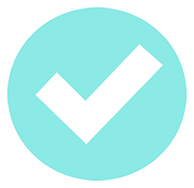
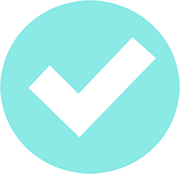
with check animation

diff --git a/css/screen.css b/css/screen.css
@@ -1747,23 +1747,33 @@ body { padding-top: 90px; padding-bottom: 150px; }
 .items.items_3 .item { width: 30.8%; margin-right: 3.8%; }
 .items.items_3 .item:last-child { margin-right: 0; }
 .items.items_3 .item .item__picture { height: 375px; }
+.items.items_3 .item .item__check:before { bottom: 99px; }
 .items.items_2 .item { width: 46.7%; margin-right: 6.6%; }
 .items.items_2 .item:last-child { margin-right: 0; }
 .items.items_2 .item .item__picture { height: 604px; }
+.items.items_2 .item .item__check:before { bottom: 214px; }
 .items.items_4 .item .item__picture { height: 275px; }
 
 .item { border: 1px solid #9C9C9C; box-shadow: 0 0 10px rgba(0, 0, 0, 0.4); background: #fff; position: relative; padding-bottom: 69px; margin-bottom: 20px; }
 .item.item_comments { position: relative; border: none; box-shadow: none; background: none; }
 .item .item__in { padding-bottom: 69px; border: 1px solid #9C9C9C; box-shadow: 0 0 10px rgba(0, 0, 0, 0.4); background: #fff; margin-bottom: 15px; position: relative; }
 .item .item__picture { height: 420px; -webkit-background-size: contain; -o-background-size: contain; background-size: contain; background-position: 50% 50%; background-repeat: no-repeat; position: relative; }
-.item .item__check { position: absolute; bottom: 0; left: 0; right: 0; top: 0; z-index: -1; background: url(../img/check11.png) no-repeat 50% 55%; transition: all 0.3s linear; opacity: 0; }
-.item .item__percentage { position: absolute; color: #999999; font-size: 25px; left: 10px; top: 10px; line-height: 1; }
-.item .item__percentageline-wrap { height: calc(100% -(120px)); position: absolute; bottom: 65px; left: 0; width: 15px; z-index: 200; }
+.item .item__check { position: absolute; bottom: 0; left: 0; right: 0; z-index: -1; overflow: hidden; transition: all 0.3s linear; opacity: 0; }
+.item .item__check:before { content: ""; position: absolute; bottom: 49px; left: 50%; margin-left: -90px; background: url(../img/check11.png) no-repeat 50% 50%; width: 180px; height: 174px; }
+.item .item__percentage { position: absolute; color: #999; font-size: 25px; left: 10px; top: 10px; line-height: 1; }
+.item .item__percentageline-wrap { height: calc(100% - 120px); position: absolute; bottom: 65px; left: 0; width: 15px; z-index: 200; }
 .item .item__percentageline-wrap.is-green { background: #44FFFE; }
 .item .item__percentageline { position: absolute; bottom: 0; left: 0; width: 15px; background: #C9C9C9; z-index: 200; }
 .item .item__percentageline.is-green { background: #44FFFE; }
-.item.is-check .item__check { opacity: 1; z-index: 10; }
 .item.is-voted .item__check { height: 100%; }
+@-moz-keyframes item__check { from { height: 0; }
+  to { height: 100%; } }
+@-webkit-keyframes item__check { from { height: 0; }
+  to { height: 100%; } }
+@keyframes item__check { from { height: 0; }
+  to { height: 100%; } }
+.item.is-runcheckmark .item__check { opacity: 1; z-index: 10; height: 0; -moz-animation: item__check 0.6s linear forwards; -webkit-animation: item__check 0.6s linear forwards; animation: item__check 0.6s linear forwards; }
+.item.is-runcheckmark .item__picture:after { opacity: 1; }
 .item.is-winner:before { position: absolute; right: 10px; top: 10px; content: " "; background: url('../img/icons-s521918c1aa.png') 0 -186px no-repeat; width: 87px; height: 68px; z-index: 200; }
 .item .item__text { position: absolute; bottom: 0; left: 0; right: 0; background: #fff; height: 71px; font-size: 15px; color: #535353; padding: 6px 13px 0 13px; overflow: hidden; }
 .item.item_finished .item__buy { position: absolute; bottom: 5px; left: 0; right: 0; text-align: center; display: none; }
@@ -1774,6 +1784,10 @@ body { padding-top: 90px; padding-bottom: 150px; }
 .item.item_addtext textarea { position: absolute; top: 0; left: 0; right: 0; bottom: 0; width: 100%; padding: 15px; border: none; font-size: 25px; color: #858585; font-family: Comfortaa, sans-serif; box-sizing: border-box; }
 .item.item_add { height: 269px; box-shadow: none; box-sizing: border-box; border: 2px dashed #B7B7B7; background: transparent; }
 .item.item_add .item__addicon { border-radius: 50%; font-size: 30px; color: #A4A4A4; text-align: center; width: 132px; height: 132px; border: 3px dashed #B7B7B7; position: absolute; top: 50%; left: 50%; margin-left: -66px; margin-top: -66px; line-height: 1.1; box-sizing: border-box; padding-top: 30px; cursor: pointer; }
+
+.item__picture:after { content: ""; transition: all 0.3s linear; position: absolute; top: 50%; left: 50%; width: 180px; height: 174px; margin-top: -87px; margin-left: -90px; background: url(../img/check-is-hover.png) no-repeat 50% 50%; opacity: 0; transition: all 0.2s linear; }
+
+.item:hover .item__picture:after { opacity: 1; }
 
 .popup { position: absolute; top: 88%; width: 100%; padding-top: 150px; padding-bottom: 150px; background: rgba(0, 0, 0, 0.4); z-index: 300; }
 .popup__in { position: relative; padding: 60px 83px 20px 85px; background: #fff; box-shadow: 5px 0 10px rgba(0, 0, 0, 0.4); *zoom: 1; }
@@ -1806,12 +1820,15 @@ body { padding-top: 90px; padding-bottom: 150px; }
 .popup-descr .votes { margin-bottom: 0; }
 .popup-descr .comments { float: right; max-height: 320px; width: 380px; border: none; box-shadow: none; }
 .popup-descr .comments .comment { padding-right: 70px; }
+.popup-descr .comments .comment .add-vote, .popup-descr .comments .comment .add-report { left: 130px; }
 
 .pick { margin-bottom: 20px; position: relative; }
-.pick .pick__title { text-align: center; font-size: 25px; font-weight: normal; color: #767676; margin-bottom: 13px; }
+.pick .pick__title { text-align: center; margin-bottom: 13px; }
+.pick .pick__title a { font-size: 25px; font-weight: normal; color: #767676; text-decoration: none; }
+.pick .pick__title a:hover { text-decoration: underline; }
 .pick .pick__socials { position: absolute; right: 5px; top: -2px; cursor: pointer; }
 .pick .pick__socials.icon-494 { font-size: 35px; transform: rotate(90deg); color: #bfbfbf; }
-.pick .pick__fave { position: absolute; left: 0; top: 0; cursor: pointer; }
+.pick .pick__fave { display: block; position: absolute; left: 0; top: 0; cursor: pointer; }
 .pick .pick__fave.icon-512 { font-size: 35px; color: #bfbfbf; }
 .pick .pick__fave.icon-512:hover { color: #00d0c8; }
 
@@ -1838,7 +1855,7 @@ body { padding-top: 90px; padding-bottom: 150px; }
 
 .comment { *zoom: 1; position: relative; padding-top: 12px; padding-left: 15px; padding-right: 35px; padding-bottom: 25px; }
 .comment:after { content: " "; display: table; clear: both; }
-.comment .add-vote, .comment .add-report { position: relative; top: 0; left: 130px; font-size: 13px; color: #d6d6d6; cursor: pointer; }
+.comment .add-vote, .comment .add-report { position: relative; top: 0; left: 80px; font-size: 13px; color: #d6d6d6; cursor: pointer; }
 .comment .add-vote:hover, .comment .add-report:hover { color: #ccc; }
 .comment .add-vote .add-report, .comment .add-report .add-report { right: 55px; }
 .comment .add-vote .icon-504, .comment .add-vote .icon-380, .comment .add-report .icon-504, .comment .add-report .icon-380 { position: absolute; font-size: 16px; top: 0; }

diff --git a/sass/_main.sass b/sass/_main.sass
@@ -20,6 +20,9 @@
 				margin-right: 0
 			.item__picture
 				height: 375px
+			.item__check
+				&:before
+					bottom: 99px				
 	&.items_2
 		.item
 			width: 46.7%
@@ -28,6 +31,9 @@
 				margin-right: 0
 			.item__picture
 				height: 604px
+			.item__check
+				&:before
+					bottom: 214px
 
 	&.items_4
 		.item
@@ -65,23 +71,33 @@
 		bottom: 0
 		left: 0
 		right: 0
-		top: 0
+		// top: 0
 		z-index: -1
-		background: url(../img/check11.png) no-repeat 50% 55%
+		// background: url(../img/check11.png) no-repeat 50% 55%
+		overflow: hidden
 		transition: all .3s linear
 		opacity: 0
 		// -webkit-background-size: contain
 		// -o-background-size: contain
 		// background-size: contain
+		&:before
+			content: ""
+			position: absolute
+			bottom: 49px
+			left: 50%
+			margin-left: -90px
+			background: url(../img/check11.png) no-repeat 50% 50%
+			width: 180px
+			height: 174px
 	.item__percentage
 		position: absolute
-		color: #999999
+		color: #999
 		font-size: 25px  
 		left: 10px 
 		top: 10px 
 		line-height: 1 
 	.item__percentageline-wrap
-		height: calc(100% -(120px))
+		height: calc(100% - 120px)
 		position: absolute
 		bottom: 65px 
 		left: 0
@@ -98,13 +114,26 @@
 		z-index: 200 
 		&.is-green
 			background: #44FFFE 
-	&.is-check
-		.item__check
-			opacity: 1
-			z-index: 10
+	// &.is-check
+	// 	.item__check
+	// 		opacity: 1
+	// 		z-index: 10
 	&.is-voted
 		.item__check
 			height: 100%
+	&.is-runcheckmark
+		+keyframes(item__check)
+			from
+				height: 0
+			to
+				height: 100%
+		.item__check
+			opacity: 1
+			z-index: 10	
+			height: 0	
+			+animation(item__check .6s linear forwards)
+		.item__picture:after
+			opacity: 1	
 	&.is-winner
 		&:before
 			position: absolute
@@ -191,7 +220,22 @@
 			box-sizing: border-box
 			padding-top: 30px
 			cursor: pointer
-
+.item__picture:after
+	content: ""
+	transition: all .3s linear
+	position: absolute
+	top: 50%
+	left: 50%
+	width: 180px
+	height: 174px
+	margin-top: -87px
+	margin-left: -90px
+	background: url(../img/check-is-hover.png) no-repeat 50% 50%
+	opacity: 0
+	transition: all .2s linear
+.item:hover
+	.item__picture:after
+		opacity: 1
 .popup
 	position: absolute
 	top: 88%
@@ -327,15 +371,21 @@
 		box-shadow: none
 		.comment
 			padding-right: 70px	
+			.add-vote, .add-report
+				left: 130px
 .pick
 	margin-bottom: 20px
 	position: relative
 	.pick__title
 		text-align: center
-		font-size: 25px
-		font-weight: normal
-		color: #767676
 		margin-bottom: 13px
+		a
+			font-size: 25px
+			font-weight: normal
+			color: #767676
+			text-decoration: none
+			&:hover
+				text-decoration: underline
 	.pick__socials
 		position: absolute
 		right: 5px
@@ -346,10 +396,19 @@
 			transform: rotate(90deg)
 			color: #bfbfbf
 	.pick__fave
+		display: block
 		position: absolute
 		left: 0
 		top: 0
 		cursor: pointer
+		// &_liked
+		// 	background: #bfbfbf 
+		// 	&:hover
+		// 		background: #00d0c8
+		// &_disliked
+		// 	background: #00d0c8
+		// 	&:hover
+		// 		background: #bfbfbf
 		&.icon-512
 			font-size: 35px
 			color: #bfbfbf		
@@ -423,7 +482,7 @@
 	.add-vote, .add-report
 		position: relative
 		top: 0
-		left: 130px
+		left: 80px
 		font-size: 13px
 		color: #d6d6d6
 		cursor: pointer	

diff --git a/index.html b/index.html
@@ -82,7 +82,7 @@
 
 		<!-- begin pick  -->
 		<div class="pick">
-			<h2 class="pick__title">What’s better to buy?</h2>
+			<div class="pick__title"><a href="#">What’s better to buy?</a></div>
 			<div class="pick__socials icon-494"></div>
 			<div class="pick__fave icon-512"></div>
 			<div class="items items_4">
@@ -133,7 +133,7 @@
 		
 		<!-- begin pick  -->
 		<div class="pick">
-			<h2 class="pick__title">What’s better to buy?</h2>
+			<div class="pick__title"><a href="#">What’s better to buy?</a></div>
 			<div class="pick__socials icon-494"></div>
 			<div class="pick__fave is-active icon-512"></div>
 			<div class="items items_3">
@@ -163,7 +163,7 @@
 		<!-- end pick -->
 		<!-- begin pick  -->
 		<div class="pick">
-			<h2 class="pick__title">What’s better to buy?</h2>
+			<div class="pick__title"><a href="#">What’s better to buy?</a></div>
 			<div class="pick__socials icon-494"></div>
 			<div class="pick__fave is-active icon-512"></div>
 			<div class="items items_2">
@@ -187,9 +187,9 @@
 		</div>
 		<!-- begin pick  -->
 		<div class="pick">
-			<h2 class="pick__title">What’s better to buy?</h2>
+			<div class="pick__title"><a href="#">What’s better to buy?</a></div>
 			<div class="pick__socials icon-494"></div>
-			<div class="pick__fave is-active icon-512"></div>
+			<a class="pick__fave is-active pick__fave_liked icon-512"></a>
 			<div class="items items_2">
 				<!-- begin item -->
 				<div class="item item_finished is-winner">

diff --git a/voting.html b/voting.html
@@ -82,7 +82,7 @@
 
 		<!-- begin pick  -->
 		<div class="pick">
-			<h2 class="pick__title">What’s better to buy?</h2>
+			<div class="pick__title"><a href="#">What’s better to buy?</a></div>
 			<div class="pick__socials icon-494"></div>
 			<div class="pick__fave icon-512"></div>
 			<div class="items items_3">

diff --git a/js/common.js b/js/common.js
@@ -10,7 +10,11 @@ head.ready(function() {
 		return false;
 	});
 	$('.item').click(function(event) {
-		$(this).addClass('is-voted');
+		$(this).toggleClass('is-voted');
+	});
+	
+	$('.item').click(function(event) {
+		$(this).toggleClass('is-runcheckmark');
 	});
 
 	$(window).scroll(function () {
